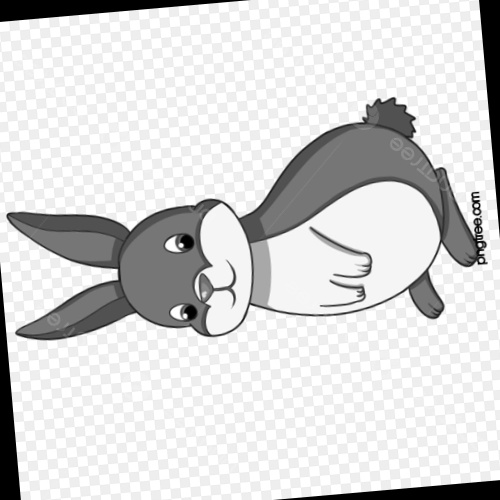
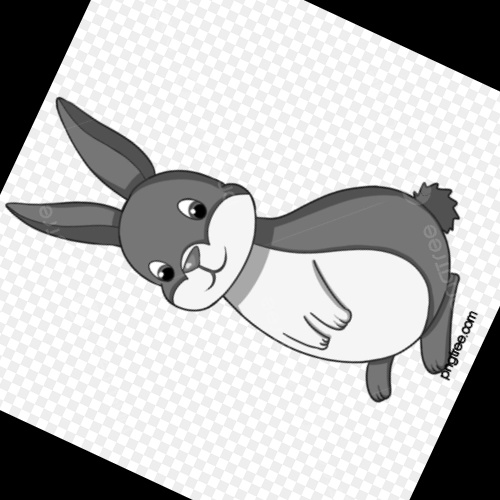
CancelSave Implementation

diff --git a/Raspberry/lab8/pixie.py b/Raspberry/lab8/pixie.py
@@ -190,15 +190,19 @@ class img(img_abs):
             self.imagen=img
         
     
-    def save(self,key):
+    def save(self,key,key2):
         if type(key)==str:
             while(1):
                 cv2.imshow("save?",self.imagen)
-                if cv2.waitKey(1) & 0xFF == ord(key):
+                if cv2.waitKey(0) & 0xFF == ord(key):
                     ruta_imagen = f'Raspberry/lab8/Saves/image{self.contador_imagenes}.jpg'
                     cv2.imwrite(ruta_imagen, self.imagen)
                     print(f"Imagen guardada en {ruta_imagen}")
                     self.contador_imagenes += 1
+                    cv2.destroyAllWindows()
+                    break
+                elif cv2.waitKey(0) & 0xFF == ord(key2):
+                    print("Guardado cancelado")
                     cv2.destroyAllWindows()
                     break
                 else:

diff --git a/Raspberry/lab8/test.py b/Raspberry/lab8/test.py
@@ -43,9 +43,9 @@ conejo.convIMGgray(0)
 conejo.showIMG()
 conejo.resize_img(500,500,0)
 conejo.showIMG()
-conejo.rotate_image(95,0)
+conejo.rotate_image(65,0)
 conejo.showIMG()
-conejo.save('x')
+conejo.save('x','c')
 #conejo.save(0)
 conejo.rotate_image(-45,0)
 conejo.resize_img(600,600,0)
